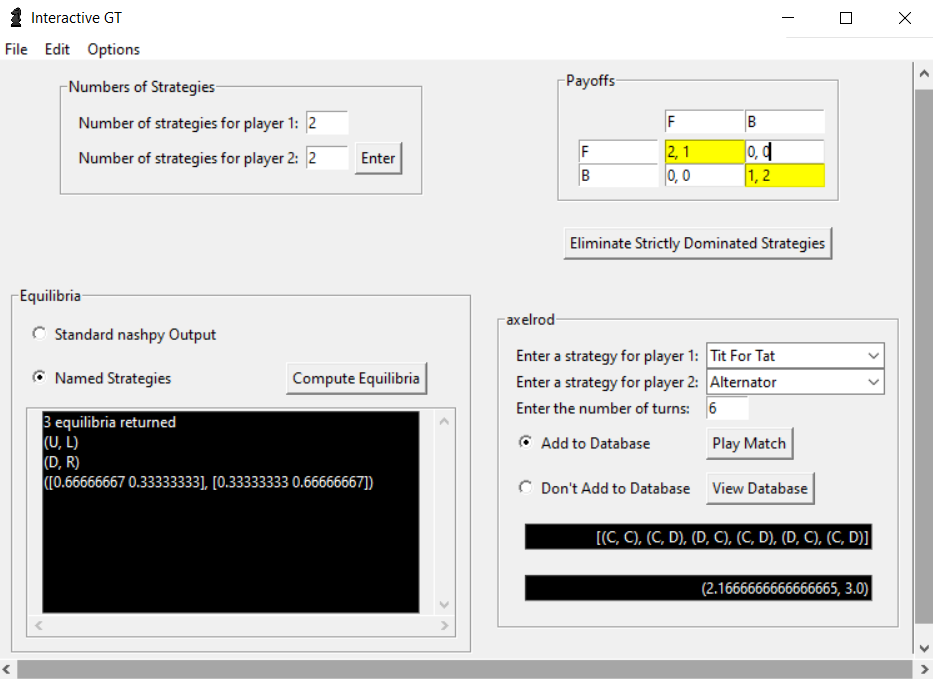
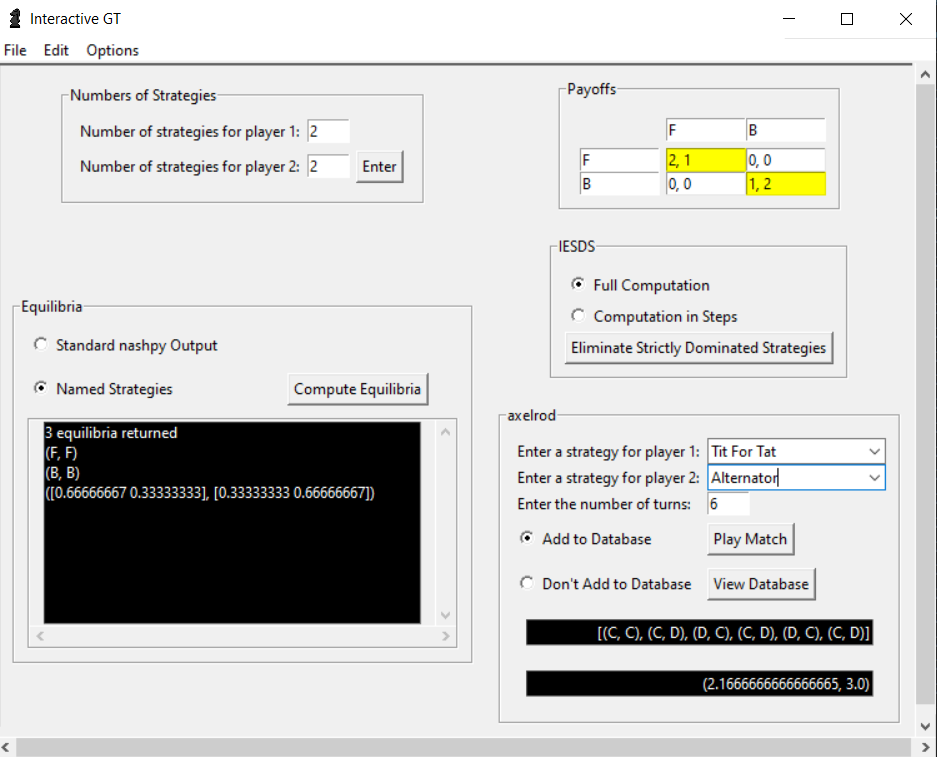
fully implemented Computation in Steps radio button

diff --git a/interactivegt.py b/interactivegt.py
@@ -634,7 +634,7 @@ def deleteRecord():
     conn.close()
     return
 
-def eliminateStrictlyDominatedStrategies():
+def eliminateStrictlyDominatedStrategies(steps):
     """
     UNFINISHED
     Compares all payoffs of all pairs of strategies for both players and eliminates strategies that are strictly dominated.    
@@ -676,7 +676,94 @@ def eliminateStrictlyDominatedStrategies():
     
     continue1 = True
     continue2 = True
-    while (numCombos1 != 0 or numCombos2 != 0) and continue1 or continue2:
+    if steps == 0: # perform full iesds computation with one click
+        while (numCombos1 != 0 or numCombos2 != 0) and continue1 or continue2:
+            pairs1 = combinations(p1Strategies, r=2) # pairs of p1's strategies to compare; indices
+            pairs2 = combinations(p2Strategies, r=2) # pairs of p2's strategies to compare; indices
+            numCombos1 = sum(1 for ignore in pairs1)
+            numCombos2 = sum(1 for ignore in pairs2)
+            pairs1 = combinations(p1Strategies, r=2) # pairs of p1's strategies to compare; indices
+            pairs2 = combinations(p2Strategies, r=2) # pairs of p2's strategies to compare; indices
+            # eliminating strategies for player 1
+            for pair in pairs1:
+                greaterThanFound1 = False
+                lessThanFound1 = False
+                equalFound1 = False
+                # searching for < or > among the payoffs
+                for j in range(numStrats2):
+                    if int(outcomesListList[pair[0]][j].get().split(", ")[0]) < int(outcomesListList[pair[1]][j].get().split(", ")[0]):
+                        lessThanFound1 = True
+                    elif int(outcomesListList[pair[0]][j].get().split(", ")[0]) > int(outcomesListList[pair[1]][j].get().split(", ")[0]):
+                        greaterThanFound1 = True
+                    else: # equal payoffs were found
+                        continue1 = False
+                        break
+                    if lessThanFound1 and greaterThanFound1: # neither is strictly dominated
+                        continue1 = False
+                        break
+                if lessThanFound1 and not greaterThanFound1: # remove strategy pair[0]
+                    continue2 = True # after removing a strategy for p1, we want to ensure we check p2's strategies again
+                    numStrats1 -= 1
+                    numStratsEntry1.delete(0, END)
+                    numStratsEntry1.insert(0, numStrats1)
+                    p1StrategyNameEntries[pair[0]].grid_remove()
+                    for j in range(numStrats2):
+                        outcomesListList[pair[0]][j].grid_remove()
+                        outcomesListList[pair[0]].pop(j)
+                if greaterThanFound1 and not lessThanFound1: # remove strategy pair[1]
+                    continue2 = True # after removing a strategy for p1, we want to ensure we check p2's strategies again
+                    numStrats1 -= 1
+                    numStratsEntry1.delete(0, END)
+                    numStratsEntry1.insert(0, numStrats1)
+                    p1StrategyNameEntries[pair[1]].grid_remove()
+                    numDeleted = 0
+                    for j in range(numStrats2):
+                        j -= numDeleted
+                        outcomesListList[pair[1]][j].grid_remove()
+                        outcomesListList[pair[1]].pop(j)
+                        numDeleted += 1
+            
+                # eliminating strategies for player 2
+                for pair in pairs2:
+                    greaterThanFound2 = False
+                    lessThanFound2 = False
+                    equalFound2 = False
+                    # searching for < or > among the payoffs
+                    for i in range(numStrats1):
+                        if len(outcomesListList[pair[0]]) == 0 or len(outcomesListList[pair[1]]) == 0:
+                            continue2 == False
+                            break
+                        if int(outcomesListList[i][pair[0]].get().split(", ")[1]) < int(outcomesListList[i][pair[1]].get().split(", ")[1]):
+                            lessThanFound2 = True
+                        elif int(outcomesListList[i][pair[0]].get().split(", ")[1]) > int(outcomesListList[i][pair[1]].get().split(", ")[1]):
+                            greaterThanFound2 = True
+                        else: # equal payoffs were found
+                            continue2 = False
+                            break
+                        if lessThanFound2 and greaterThanFound2: # neither is strictly dominated
+                            continue2 = False
+                            break
+                    if lessThanFound2 and not greaterThanFound2: # remove strategy pair[0]
+                        numStrats2 -= 1
+                        numStratsEntry2.delete(0, END)
+                        numStratsEntry2.insert(0, numStrats2)
+                        p2StrategyNameEntries[pair[0]].grid_remove()
+                        for i in range(numStrats1):
+                            outcomesListList[i][pair[0]].grid_remove()
+                            outcomesListList[i].pop(pair[0])
+                        continue1 = True # after removing a strategy for p2, we want to check p1's strategies again
+                        continue2 = False # we don't want to continue checking p2 until we've checked p1 again
+                    if greaterThanFound2 and not lessThanFound2: # remove strategy pair[1]
+                        numStrats2 -= 1
+                        numStratsEntry2.delete(0, END)
+                        numStratsEntry2.insert(0, numStrats2)
+                        p2StrategyNameEntries[pair[1]].grid_remove()
+                        for i in range(numStrats1):
+                            outcomesListList[i][pair[1]].grid_remove()
+                            outcomesListList[i].pop(pair[1])
+                        continue1 = True # after removing a strategy for p2, we want to check p1's strategies again
+                        continue2 = False # we don't want to continue checking p2 until we've checked p1 again
+    elif steps == 1: # perform iesds computation step by step
         pairs1 = combinations(p1Strategies, r=2) # pairs of p1's strategies to compare; indices
         pairs2 = combinations(p2Strategies, r=2) # pairs of p2's strategies to compare; indices
         numCombos1 = sum(1 for ignore in pairs1)
@@ -695,12 +782,8 @@ def eliminateStrictlyDominatedStrategies():
                 elif int(outcomesListList[pair[0]][j].get().split(", ")[0]) > int(outcomesListList[pair[1]][j].get().split(", ")[0]):
                     greaterThanFound1 = True
                 else: # equal payoffs were found
-                    print("equal 1")
-                    continue1 = False
                     break
                 if lessThanFound1 and greaterThanFound1: # neither is strictly dominated
-                    print("both found 1")
-                    continue1 = False
                     break
             if lessThanFound1 and not greaterThanFound1: # remove strategy pair[0]
                 continue2 = True # after removing a strategy for p1, we want to ensure we check p2's strategies again
@@ -732,17 +815,14 @@ def eliminateStrictlyDominatedStrategies():
             # searching for < or > among the payoffs
             for i in range(numStrats1):
                 if len(outcomesListList[pair[0]]) == 0 or len(outcomesListList[pair[1]]) == 0:
-                    continue2 == False
                     break
                 if int(outcomesListList[i][pair[0]].get().split(", ")[1]) < int(outcomesListList[i][pair[1]].get().split(", ")[1]):
                     lessThanFound2 = True
                 elif int(outcomesListList[i][pair[0]].get().split(", ")[1]) > int(outcomesListList[i][pair[1]].get().split(", ")[1]):
                     greaterThanFound2 = True
                 else: # equal payoffs were found
-                    continue2 = False
                     break
                 if lessThanFound2 and greaterThanFound2: # neither is strictly dominated
-                    continue2 = False
                     break
             if lessThanFound2 and not greaterThanFound2: # remove strategy pair[0]
                 numStrats2 -= 1
@@ -752,8 +832,6 @@ def eliminateStrictlyDominatedStrategies():
                 for i in range(numStrats1):
                     outcomesListList[i][pair[0]].grid_remove()
                     outcomesListList[i].pop(pair[0])
-                continue1 = True # after removing a strategy for p2, we want to check p1's strategies again
-                continue2 = False # we don't want to continue checking p2 until we've checked p1 again
             if greaterThanFound2 and not lessThanFound2: # remove strategy pair[1]
                 numStrats2 -= 1
                 numStratsEntry2.delete(0, END)
@@ -762,8 +840,9 @@ def eliminateStrictlyDominatedStrategies():
                 for i in range(numStrats1):
                     outcomesListList[i][pair[1]].grid_remove()
                     outcomesListList[i].pop(pair[1])
-                continue1 = True # after removing a strategy for p2, we want to check p1's strategies again
-                continue2 = False # we don't want to continue checking p2 until we've checked p1 again
+    else:
+        print(f"Unexpected value {steps} for variable\"steps\"")
+        stepsError = messagebox.showError("Error", f"Unexpected value {steps} for variable\"steps\"")
     return
 
 def enterColor(color):
@@ -824,9 +903,6 @@ def enterPayoffs():
 
 def equilibriaOutputStyleClicked(value):
     eqOutput.set(value)
-    
-def iesdsStepsClicked(value):
-    iesdsSteps.set(value)
     
 def export(fileName, records):
     # input validation
@@ -895,6 +971,9 @@ def exportSearchGetFileName(records):
     fileNameEntry.grid(row=0, column=1)
     fileNameButton.grid(row=0, column=2)
     return
+
+def iesdsStepsClicked(value):
+    iesdsSteps.set(value)
 
 def myfunction(event):
     rootCanvas.configure(scrollregion=rootCanvas.bbox("all"), width=root.winfo_width() - 25, height=root.winfo_height() - 25)
@@ -2227,7 +2306,7 @@ iesdsSteps.set("0")
 Radiobutton(iesdsFrame, text="Full Computation", variable=iesdsSteps, value=0, command=lambda: iesdsStepsClicked(iesdsSteps.get())).grid(row=0, column=0, sticky=W)
 Radiobutton(iesdsFrame, text="Computation in Steps", variable=iesdsSteps, value=1, command=lambda: iesdsStepsClicked(iesdsSteps.get())).grid(row=1, column=0, sticky=W)
     
-iesdsButton = Button(iesdsFrame, text="Eliminate Strictly Dominated Strategies", command=eliminateStrictlyDominatedStrategies)
+iesdsButton = Button(iesdsFrame, text="Eliminate Strictly Dominated Strategies", command=lambda: eliminateStrictlyDominatedStrategies(iesdsSteps.get()))
 
 # Equilibria Frame
 equilibriaFrame = LabelFrame(rootFrame, text="Equilibria" , padx=10, pady=10)
@@ -2297,7 +2376,7 @@ payoffsFrame.grid(row=0, column=1, padx=10, pady=10)
 iesdsFrame.grid(row=1, column=1, padx=10, pady=10)
 iesdsButton.grid(row=2, column=0)
 
-equilibriaFrame.grid(row=2, column=0, padx=10, pady=10)
+equilibriaFrame.grid(row=1, column=0, rowspan=2, padx=10, pady=10)
 equilibriaButton.grid(row=1, column=1, padx=10, pady=10)
 
 axelrodFrame.grid(row=2, column=1, padx=10, pady=10)
